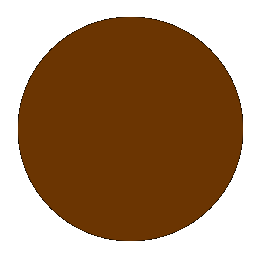
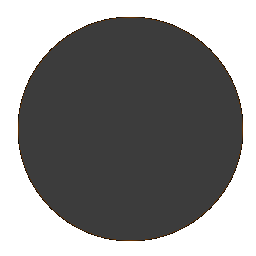
Added different asteroid sprites

diff --git a/js/app.js b/js/app.js
@@ -51,7 +51,7 @@ $(document).ready(function() {
 	var keyMap = {87: false, 38: false, 68: false, 39: false, 65: false, 40: false, 83: false, 37: false, 71: false, 69:false, 80: false};
 	var asteroids = [];
 	var bullets = [];
-	var asteroidImg;
+	var asteroidImgs = [];
 	var asteroidNum = 7;
 	var paused = false;
 	var maxAsteroids = 10;
@@ -115,8 +115,9 @@ $(document).ready(function() {
 		this.width = width;
 		this.xSpeed = xSpeed;
 		this.ySpeed = ySpeed;
+		this.image = Math.floor(Math.random() * 3);
 		this.draw = function() {
-			gameArea.drawImg(this.width, this.height, this.x, this.y, asteroidImg);
+			gameArea.drawImg(this.width, this.height, this.x, this.y, asteroidImgs[this.image]);
 		},
 		this.move = function() {
 			if (this.x < 0 || this.x > gameWidth || this.y < 0 || this.y > gameHeight) {
@@ -212,8 +213,12 @@ $(document).ready(function() {
 		player.img[1].src = "assets/playerDam1.png";
 		player.img[2] = new Image();
 		player.img[2].src = "assets/player.png";
-		asteroidImg = new Image();
-		asteroidImg.src = "assets/asteroid.png";
+		asteroidImgs[0] = new Image();
+		asteroidImgs[0].src = "assets/asteroid.png";
+		asteroidImgs[1] = new Image();
+		asteroidImgs[1].src = "assets/asteroid1.png";
+		asteroidImgs[2] = new Image();
+		asteroidImgs[2].src = "assets/asteroid2.png";
 		splashImg = new Image();
 		splashImg.src = "assets/splash.png";
 		//Populate the asteroids array
